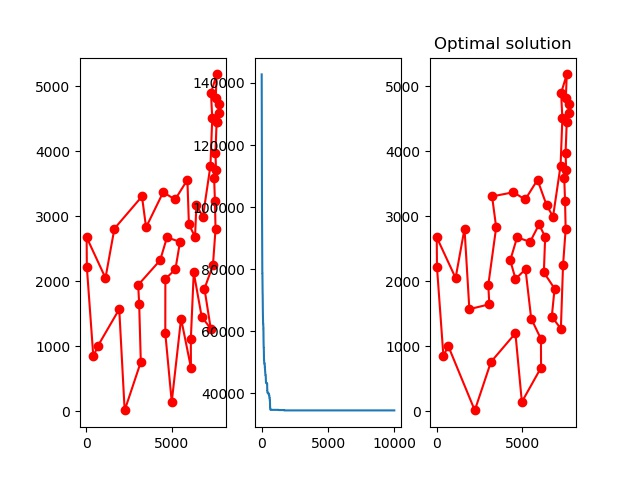
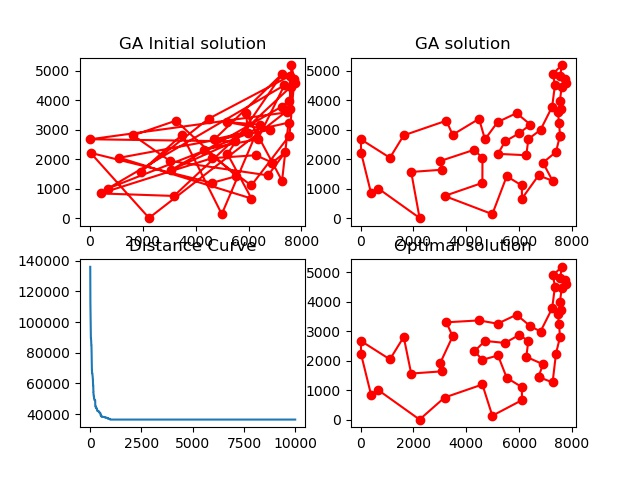
finish experiment

diff --git a/main.py b/main.py
@@ -8,6 +8,7 @@ import matplotlib.pyplot as plt
 
 from sko.GA import GA
 from sko.GA import GA_TSP
+import  time
 
 
 def readOpt(filename):
@@ -33,7 +34,7 @@ def readData(filename):
             if 'EOF' in line:
                 break
             line = line.strip('\n').split()
-            node, x, y = int(line[0])-1, int(line[1]), int(line[2])
+            node, x, y = int(line[0]) - 1, int(line[1]), int(line[2])
             
             nodeMap.append([x, y])
             pts_num += 1
@@ -74,25 +75,33 @@ opt = readOpt('tsp_data/%s.opt.tour' % problem_set)
 opt_distance = calculateTotalDis(opt)
 opt = np.concatenate([opt, [opt[0]]])
 
-
 points = range(1, len(nodeDis) + 1)
-size_pop = 10
+size_pop = 100
 prob_mut = 0.5
-fig, ax = plt.subplots(1, 3)
+setting = 'A3'
+start = time.process_time()
+
+fig, ax = plt.subplots(2, 2)
 ga_tsp = GA_TSP(func=calculateTotalDis, n_dim=len(nodeDis), size_pop=size_pop, max_iter=2000, prob_mut=prob_mut)
+best_points, best_distance = ga_tsp.run(1)
+best_points_ = np.concatenate([best_points, [best_points[0]]])
+ax[0][0].plot([nodeMap[p][0] for p in best_points_], [nodeMap[p][1] for p in best_points_], 'o-r')
+ax[0][0].set_title('GA Initial solution')
 for itr in range(100):
     best_points, best_distance = ga_tsp.run(100)
     best_points_ = np.concatenate([best_points, [best_points[0]]])
     # ax[itr].plot([nodeMap[p][0] for p in best_points_], [nodeMap[p][1] for p in best_points_], 'o-r')
-    print('itr', itr*100, '. distance %.2f' % best_distance, 'opt distance %.2f' % opt_distance)
+    print('itr', itr * 100, '. distance %.2f' % best_distance, 'dif to opt %.2f' % best_distance - opt_distance)
     if best_distance < opt_distance + 0.01:
         break
-        
-ax[0].plot([nodeMap[p][0] for p in best_points_], [nodeMap[p][1] for p in best_points_], 'o-r')
-plt.title('GA solution')
-ax[1].plot(ga_tsp.generation_best_Y)
-plt.title('Distance Curve')
-ax[2].plot([nodeMap[p][0] for p in opt], [nodeMap[p][1] for p in opt], 'o-r')
-plt.title('Optimal solution')
-plt.savefig('figures/pop%dmut%.1fitr%d.jpg'%(size_pop, prob_mut, itr*100))
+finish = time.process_time()
+print('time cost', finish-start)
+ax[0][1].plot([nodeMap[p][0] for p in best_points_], [nodeMap[p][1] for p in best_points_], 'o-r')
+ax[0][1].set_title('GA solution')
+ax[1][0].plot(ga_tsp.generation_best_Y)
+ax[1][0].set_title('Distance Curve')
+ax[1][1].plot([nodeMap[p][0] for p in opt], [nodeMap[p][1] for p in opt], 'o-r')
+ax[1][1].set_title('Optimal solution')
+fig.suptitle('Exp. %s' % setting)
+plt.savefig('figures/%s_pop%dmut%.1fitr%dtime%.1f.jpg' % (setting, size_pop, prob_mut, itr * 100, finish-start))
 plt.show()
